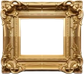
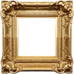
Bubble frame: even 6 pt gold frame outside the bubble, room between framed posts, owner's switch for everyone in the badge desk; version 27.6.9
Claude-Session: https://claude.ai/code/session_01PzZ8yqJdBLvZwN2opxKMLt

diff --git a/assets/bubbles/cut_frame.py b/assets/bubbles/cut_frame.py
@@ -40,12 +40,34 @@ frame = Image.fromarray(rgba[y0:y1, x0:x1], "RGBA")
 fw, fh = frame.size
 frame.save(f"{out}/frame-cutout.png")
 
-# Border thickness in source pixels (left side) and the on-screen thickness we want.
-border = 81.0
-point_thickness = 7.0
+# The photo's rails differ (top ~68 px, sides ~81 px). Measure them from the opening and
+# resample the top and bottom bands to the side's thickness, so the frame is even all round.
+fa = np.asarray(frame)
+opening = fa[..., 3] < 128
+olab, _ = ndimage.label(opening)
+inner = olab == olab[fh // 2, fw // 2]
+iys, ixs = np.where(inner)
+top_t, bottom_t, left_t = iys.min(), fh - 1 - iys.max(), ixs.min()
+border = float(left_t)
+def remap_rows(img, top, bottom, target):
+    rows = []
+    def band(y0, y1, n):
+        part = img.crop((0, y0, img.width, y1))
+        return part.resize((img.width, n), Image.LANCZOS)
+    middle = img.crop((0, top, img.width, img.height - bottom))
+    out = Image.new("RGBA", (img.width, target * 2 + middle.height), (0, 0, 0, 0))
+    out.paste(band(0, top, target), (0, 0))
+    out.paste(middle, (0, target))
+    out.paste(band(img.height - bottom, img.height, target), (0, target + middle.height))
+    return out
+frame = remap_rows(frame, top_t, bottom_t, left_t)
+fw, fh = frame.size
+frame.save(f"{out}/frame-cutout.png")
+
+point_thickness = 6.0
 scale = point_thickness * 3.0 / border  # source px -> @3x px
 
-corner_w, corner_h = 160, 140          # corner ornaments, source px
+corner_w, corner_h = 160, 160          # corner ornaments, source px
 top_strip_x = 420                       # plain moulding column on top/bottom
 side = np.asarray(frame)[:, :90, :3].astype(np.float32)
 # Plainest row of the left side between the corner ornaments: least change to the next row.
@@ -104,4 +126,4 @@ top, bottom = feather(top), feather(bottom)
 scaled(top).save(f"{out}/VoidGramBubbleFrameTop@3x.png", optimize=True)
 scaled(bottom).save(f"{out}/VoidGramBubbleFrameBottom@3x.png", optimize=True)
 
-print("frame", fw, fh, "side strip", side_strip_y, "nine", nine.size, "cap px", round(corner_w * scale), round(corner_h * scale), "orn", scaled(top).size)
+print("bands", top_t, bottom_t, left_t, "frame", fw, fh, "side strip", side_strip_y, "nine", nine.size, "cap px", round(corner_w * scale), round(corner_h * scale), "orn", scaled(top).size)
